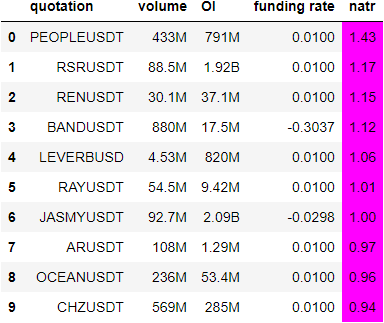
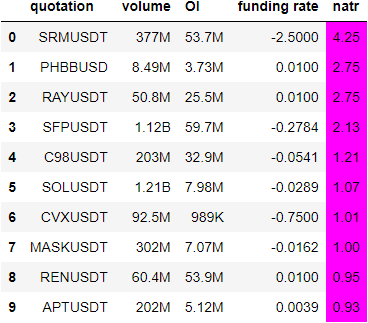
fix launch bugs

diff --git a/tg_screener_bot.py b/tg_screener_bot.py
@@ -12,6 +12,7 @@ import market_screener as ms
 import tg_msg_preparer as msg_preparer
 import tg_msg_sender as msg_sender
 import tg_img_table_creator as img_creator
+import json_saver as saver
 
 
 class ScreenerBot:
@@ -33,7 +34,7 @@ class ScreenerBot:
             print(self.users)
         f.close()
 
-        self.screener = ms.Screener('binance')
+        self.screener = ms.Screener('binance', 'future')
         self.sender = msg_sender.TgSender(self.TOKEN, self.URL)
 
         gag_later = 'creating an up\-to\-date screening in progress'
@@ -259,6 +260,11 @@ class ScreenerBot:
                 if screening_type == self.screener.get_top_natr:
                     screening = screening_type(num=10)
 
+                    # scetch saving json for rest server
+                    df_for_json = screening[0][['quotation','natr','turnover_24h']].copy()
+                    saver.json_save(df_for_json)
+                    # end of the scetch
+                    
                     header = 'top qoutes by natr'
                     self.msg_natrs = msg_preparer.msg_formatter(
                         screening, header)
@@ -287,6 +293,7 @@ class ScreenerBot:
 
                 time.sleep(delay)
             except Exception as e:
+                print(e, screening_type)
                 self.sender.send_message(1109752742, 'screening preparing error: ' + str(e))
 
 

diff --git a/json_saver.py b/json_saver.py
@@ -1,30 +1,17 @@
-import pandas as pd
 import json
 
+def json_save(df):
+    print(df)
 
-df = pd.DataFrame(
-    {'quotation': ['BTCUSDT', 'EHTh'],
-    'natr': [0.5, 0.75]},
-    index=[0, 1])
+    result_json = {}
 
-print(df)
+    df_dict = df.to_dict('records')
+    result_json['spot'] = df_dict
 
-big_json = {}
+    print(result_json)
 
-result = df.to_dict('records')
-print(type(result))
-print(result)
-big_json['spot'] = result
-big_json['future'] = result
-
-print(big_json)
-
-#parsed = json.dumps(big_json)
-#print(type(parsed))
-#print(parsed)
-
-with open('test.json', 'w') as outfile:
-    json.dump(big_json, outfile, indent=4)
-
-#dump = json.dumps(parsed, indent=4)
-#print(dump)
+    try:
+        with open('test.json', 'w') as outfile:
+            json.dump(result_json, outfile, indent=4)
+    except Exception as e:
+        print(e)

diff --git a/tg_bot_runner.py b/tg_bot_runner.py
@@ -1,4 +1,6 @@
-import tg_screener_bot 
+import time
+
+import tg_screener_bot
 
 
 if __name__ == '__main__':
@@ -6,5 +8,7 @@ if __name__ == '__main__':
         try:
             bot = tg_screener_bot.ScreenerBot()
             bot.run()
-        except Exception as s:
+        except Exception as e:
+            print(e)
             print('try again')
+            time.sleep(1)

diff --git a/connector_binance.py b/connector_binance.py
@@ -31,7 +31,7 @@ class BinanceConnector:
         r_json = json.loads(r.text)
 
         symbols = r_json['symbols']
-        print(symbols['symbol'])
+
         quotes_USDT = [x['baseAsset'] for x in symbols if 'USDT' in x['quoteAsset']]
 
         quotes_BUSD = [x['baseAsset'] for x in symbols if 'BUSD' in x['quoteAsset'] and 

diff --git a/market_screener.py b/market_screener.py
@@ -75,10 +75,8 @@ class Screener:
         else:
             df[['turnover_24h']] = df[['turnover_24h']].astype(float)
 
-        print(len(df))
         # drop all coins with 24h volume less that $30M 
         df = df[df.turnover_24h > 1000000]
-        print(len(df))
         return df
 
 
